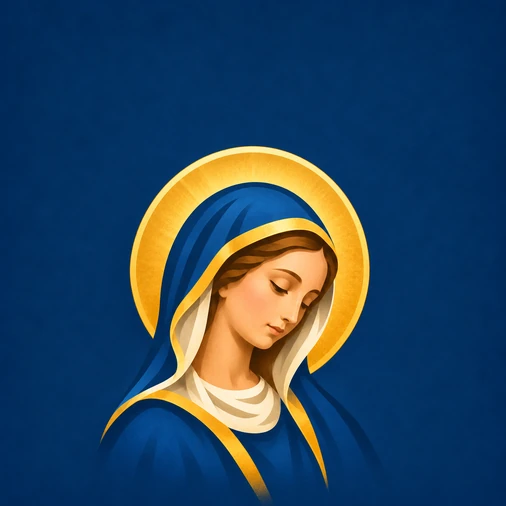
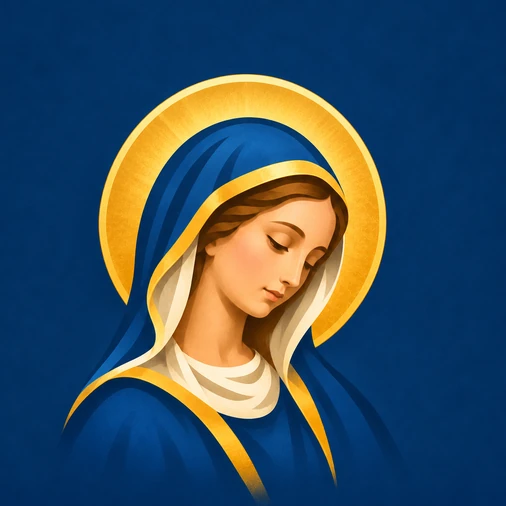
feat: the full rosary's picture, Our Lady closer
Claude-Session: https://claude.ai/code/session_01C5cbcRDhpzeVMGUaJpZkq6

diff --git a/CLAUDE.md b/CLAUDE.md
@@ -72,7 +72,7 @@ A single-page web app for praying the Latin rosary and other Latin prayers (the 
 - `public/manifest.webmanifest` — PWA metadata.
 - `public/.htaccess` — Apache (WEDOS) rewrite: plain http and `www.` get a 301 to `https://rosarium.lat/` + the same path (the service worker needs https; `localStorage` is per origin, so one host only). WEDOS serves the domain from `domains/rosarium.lat/` by an internal rewrite, so `%{REQUEST_URI}` carries that folder: the path is captured relative to the file (`$1`), never from `REQUEST_URI`, and a request naming the folder (`%{THE_REQUEST}`) is sent back to the plain path. The host is written in it: a build for another address must drop or change it.
 - `art/missal/*.jpg` — the Misál look's woodcuts, cut from a typeset Roman missal's PDF whose plates are dated 1883–1887 (public domain): headpieces named after their group (`cotidianae`, `mariales`, `missa`, `sacramentum`, `litaniae`, `defuncti`, `devotiones`, `ioseph`) or screen (`maria` for *Moje*, `immaculata` for the plans, `euntes` for Help), the vignettes `tempus` (in season) and `pax` (About), and the red ornaments `finis`, `crux` and `stella`. `scripts/render-missal-art.py` (Pillow) cleans each to black ink on white and saves `public/missal/<name>.webp` in grey (about 65 kB a headpiece), which `MissalArt` blends into the page (`.missal-art` in `index.css`: `multiply`, and inverted with `screen` in the dark theme); the red ones (`RED`) get an alpha channel instead and are drawn as a mask over `--rubric`, sized by `RED_ORNAMENTS`. Re-run it whenever one changes. They load lazily and only in the Misál.
-- `art/menu-icons/*.webp` — the paintings on the start screen's mystery-set and chaplet tiles (506 px, AI-generated, as About says — `t.aboutArt`): `radostny`, `bolestny`, `slavny` and the Divine Mercy chaplet's `misericordia`; and the full rosary's `psalterium` (Our Lady with a golden halo, low in a field of blue). `scripts/render-menu-icons.py` (Pillow) renders them to `public/icons/<name>.webp` at 96 px (about 4 kB each), which `TileImage` draws at 40 px; re-run it whenever a painting changes. The groups, the in-season card, the plans and the continue tile keep their line-drawn symbols.
+- `art/menu-icons/*.webp` — the paintings on the start screen's mystery-set and chaplet tiles (506 px, AI-generated, as About says — `t.aboutArt`): `radostny`, `bolestny`, `slavny` and the Divine Mercy chaplet's `misericordia`; and the full rosary's `psalterium` (Our Lady with a golden halo on blue). `scripts/render-menu-icons.py` (Pillow) renders them to `public/icons/<name>.webp` at 96 px (about 4 kB each), which `TileImage` draws at 40 px; re-run it whenever a painting changes. The groups, the in-season card, the plans and the continue tile keep their line-drawn symbols.
 - `art/icon-source.png` — the app icon's art (AI-generated, as About says): the Immaculate Heart (flames, the sword, a garland of white roses, a glory of rays) full-bleed on a textured blue field, 1254 px square. `scripts/render-icons.py` (Pillow, NumPy) renders it to `public/icon-48.png` (favicon, in `index.html` and on the static pages), `icon-180.png` (iOS `apple-touch-icon`) and `icon-192.png` / `icon-512.png` (manifest, `any`) at 88%, and to `icon-maskable-192.png` / `icon-maskable-512.png` (manifest, `maskable`) at 78%, so the flames' tips and the sword's pommel stay inside Android's maskable safe zone. Each is scaled onto the field's own blue (sampled from the picture's border, lighter towards the centre) with the art's edge feathered into it, and the glory of rays round the heart (`GLORY_X`, `GLORY_Y`) is centred, since in the painting it sits below the middle with the flames at the top edge. It also renders `public/heart-192.webp` — the heart the start screen and the About dialog show — from `art/icon-heart.png`, the same art with the blue field transparent, which `scripts/cut-heart.py` cuts out (opaque heart, flames, sword and roses; the rays faded out by colour-to-alpha against the field's blue, the dull shading beside them dropped). Inside the app the heart stands on the page's own background, so it suits both themes; the installed icon keeps the blue. Re-run both (`cut-heart.py` first) whenever the art changes, and look at the cut-out.
 - `public/og-image.svg` — the 1200×630 link-preview image (the heart, linked from `../art/icon-source.png`, filling the left square with its right edge fading into the same blue, beside *Rosarium Latinum* in light type, with no domain in it so a move needs no re-render, set in EB Garamond, which must be installed to render it), rendered to `og-image.png` with Inkscape from inside `public/` (so the relative image link resolves): `inkscape og-image.svg --export-type=png --export-filename=og-image.png -w 1200 -h 630`.
 - `index.html` — title, description, link-preview tags (canonical, Open Graph, `twitter:card`; their `%APP_URL%` is filled in at build time), theme color, manifest link, icons, and the pre-paint script that sets the theme and the look (`data-theme`, `data-look`). Previews are bilingual (English, then Czech) for the same reason as the name. The installed name is Latin and the same for every locale — *Rosarium* (`<title>`, `apple-mobile-web-app-title`, manifest `short_name`), *Rosarium Latinum* in full — because a manifest can't follow the UI language; the app then sets `document.title` and `<html lang>` from the locale at runtime. (No webfont link: EB Garamond is bundled, see Typography.)
